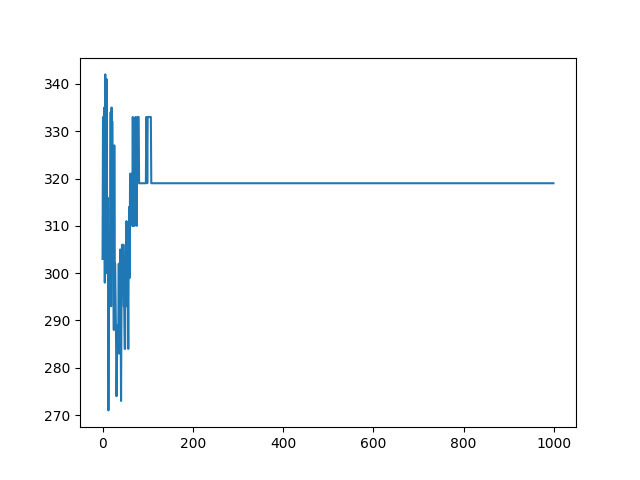
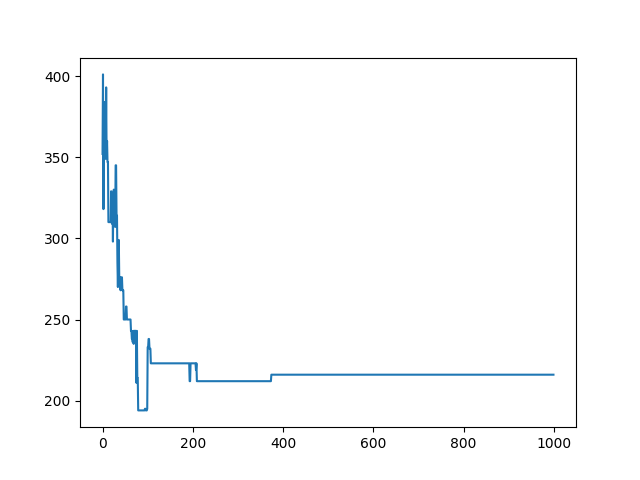
algoritmo genético convergindo

diff --git a/main.py b/main.py
@@ -22,9 +22,9 @@ distancias = np.array([
 ])
 
 qtd_individuos = 100
-tx_mutacao = 0.7
+tx_mutacao = 0.002
 qtd_iteracoes = 1000
-qtd_permutacoes_mutacao = 3
+qtd_permutacoes_mutacao = 7
 
 def calculo_fitness(individuo:np.ndarray):
     distancia_final = 0
@@ -52,20 +52,20 @@ def reproduzir(pai, mae):
     return filho
 
 def mutacao(individuo):
-    
-    if(random.random() < tx_mutacao):
-        indice_1, indice_2 = gerar_indices_diferentes(14)
-        individuo[indice_2], individuo[indice_1] = individuo[indice_1], individuo[indice_2]
+    for i in range(qtd_permutacoes_mutacao):
+        if(random.random() < tx_mutacao):
+            indice_1, indice_2 = gerar_indices_diferentes(14)
+            individuo[indice_2], individuo[indice_1] = individuo[indice_1], individuo[indice_2]
     return individuo
 
 
 def gerar_indices_diferentes(tamanho):
     
-    indice_1 = random.randint(0, tamanho-1)
-    indice_2 = random.randint(0, tamanho-1)
+    indice_1 = random.choice(np.arange(0,14))
+    indice_2 = random.choice(np.arange(0,14))
     
     while indice_1 == indice_2:
-        indice_2 = random.randint(0, tamanho-1)
+        indice_2 = random.choice(np.arange(0,14))
     
     return indice_1, indice_2
 
@@ -87,7 +87,7 @@ for i in range(qtd_iteracoes):
         indice_pai = np.random.choice(indices, p=probabilidades)
         indice_mae = np.random.choice(indices, p=probabilidades)
         filho = reproduzir(populacao[indice_pai], populacao[indice_mae])
-        # filho = mutacao(filho)
+        filho = mutacao(filho)
         nova_populacao.append(filho)
 
     populacao = nova_populacao
@@ -95,10 +95,8 @@ for i in range(qtd_iteracoes):
     nova_populacao.sort(key=lambda x:calculo_fitness(x))
     melhor_distancia = calculo_fitness(nova_populacao[0])
     historico.append(melhor_distancia)
-    # print(f"melhor fitness: {melhor_distancia}")
-    # print(f"melhor rota: {nova_populacao[0]}")
+    print(f"melhor fitness: {melhor_distancia}")
+    print(f"melhor rota: {nova_populacao[0]}")
 
 plt.plot(historico)
 plt.savefig("grafico.png")
-
-print("terminô")
